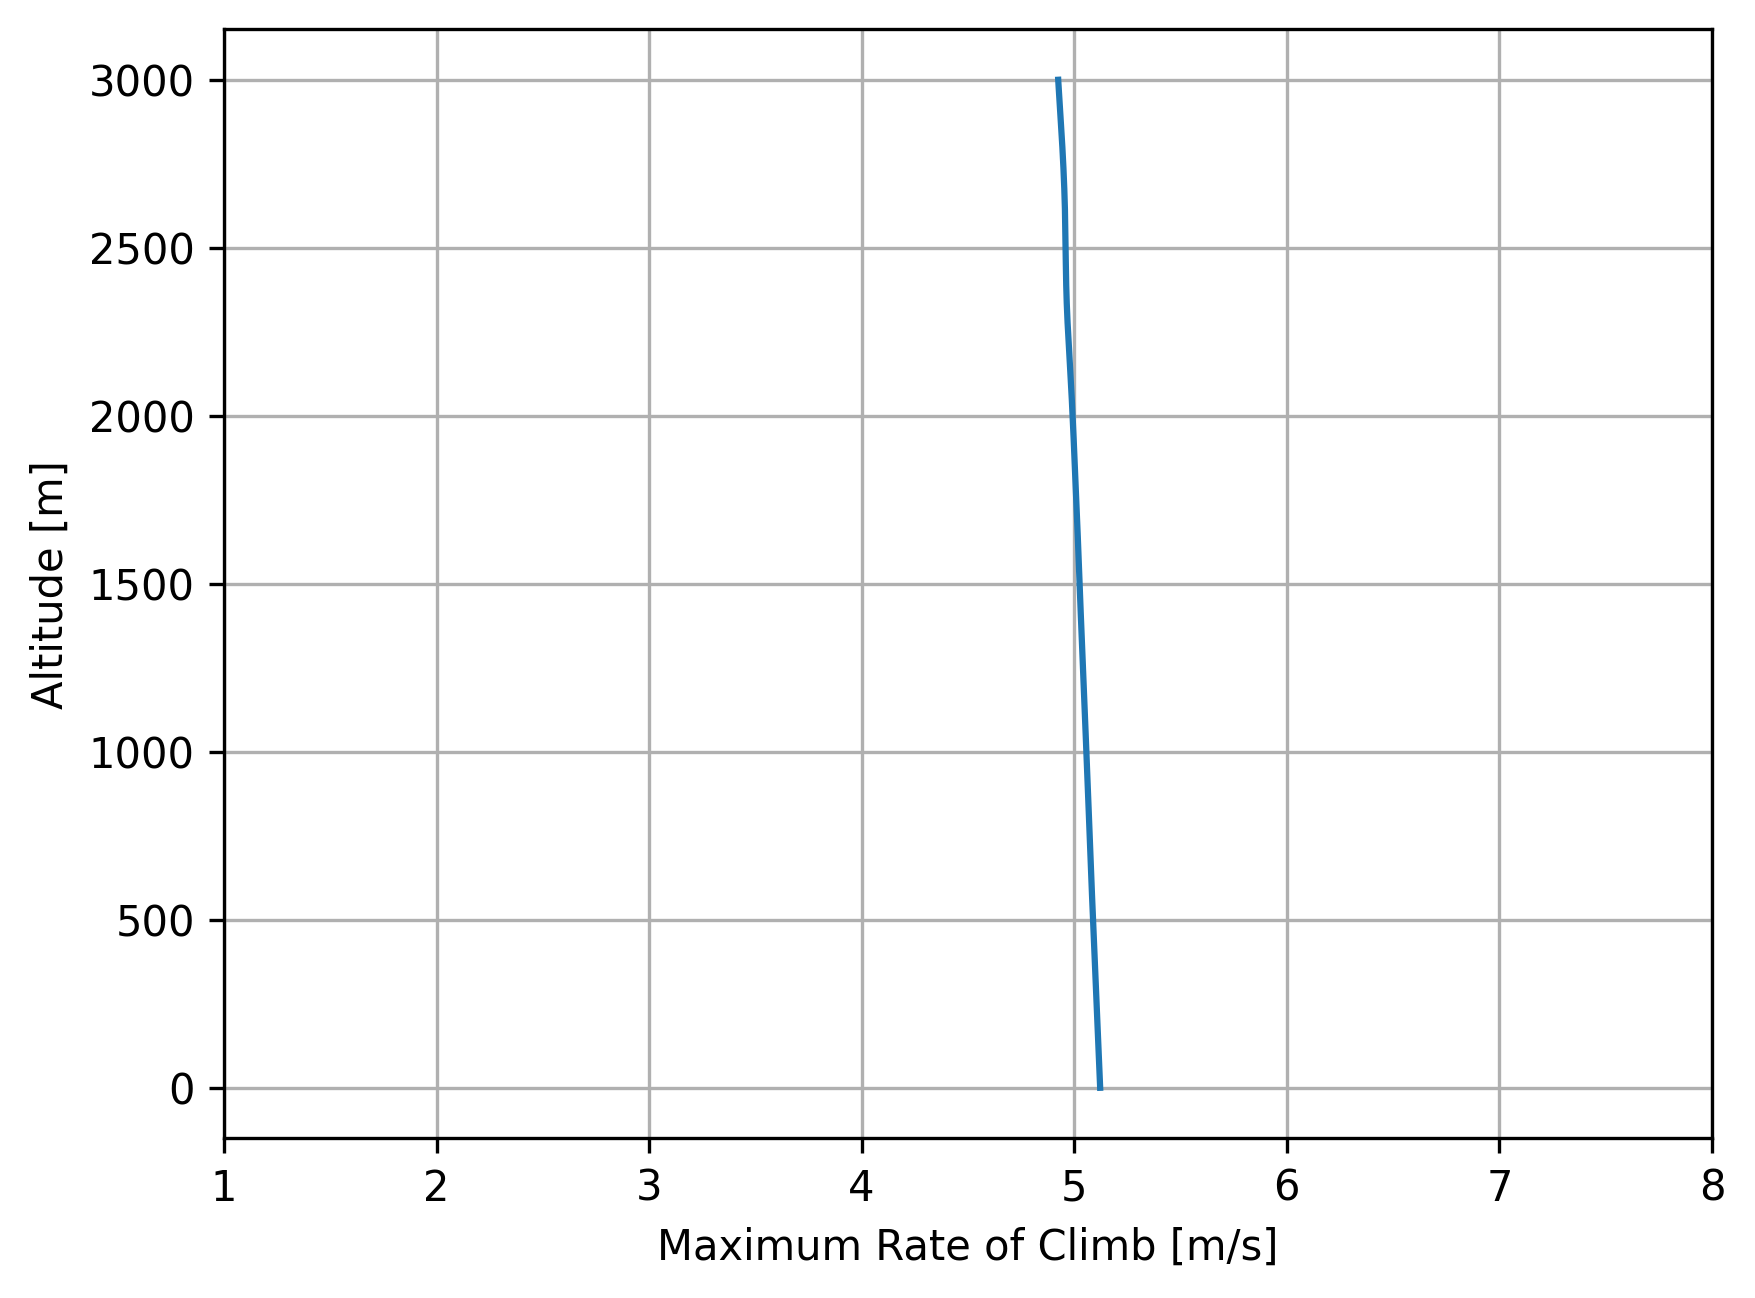
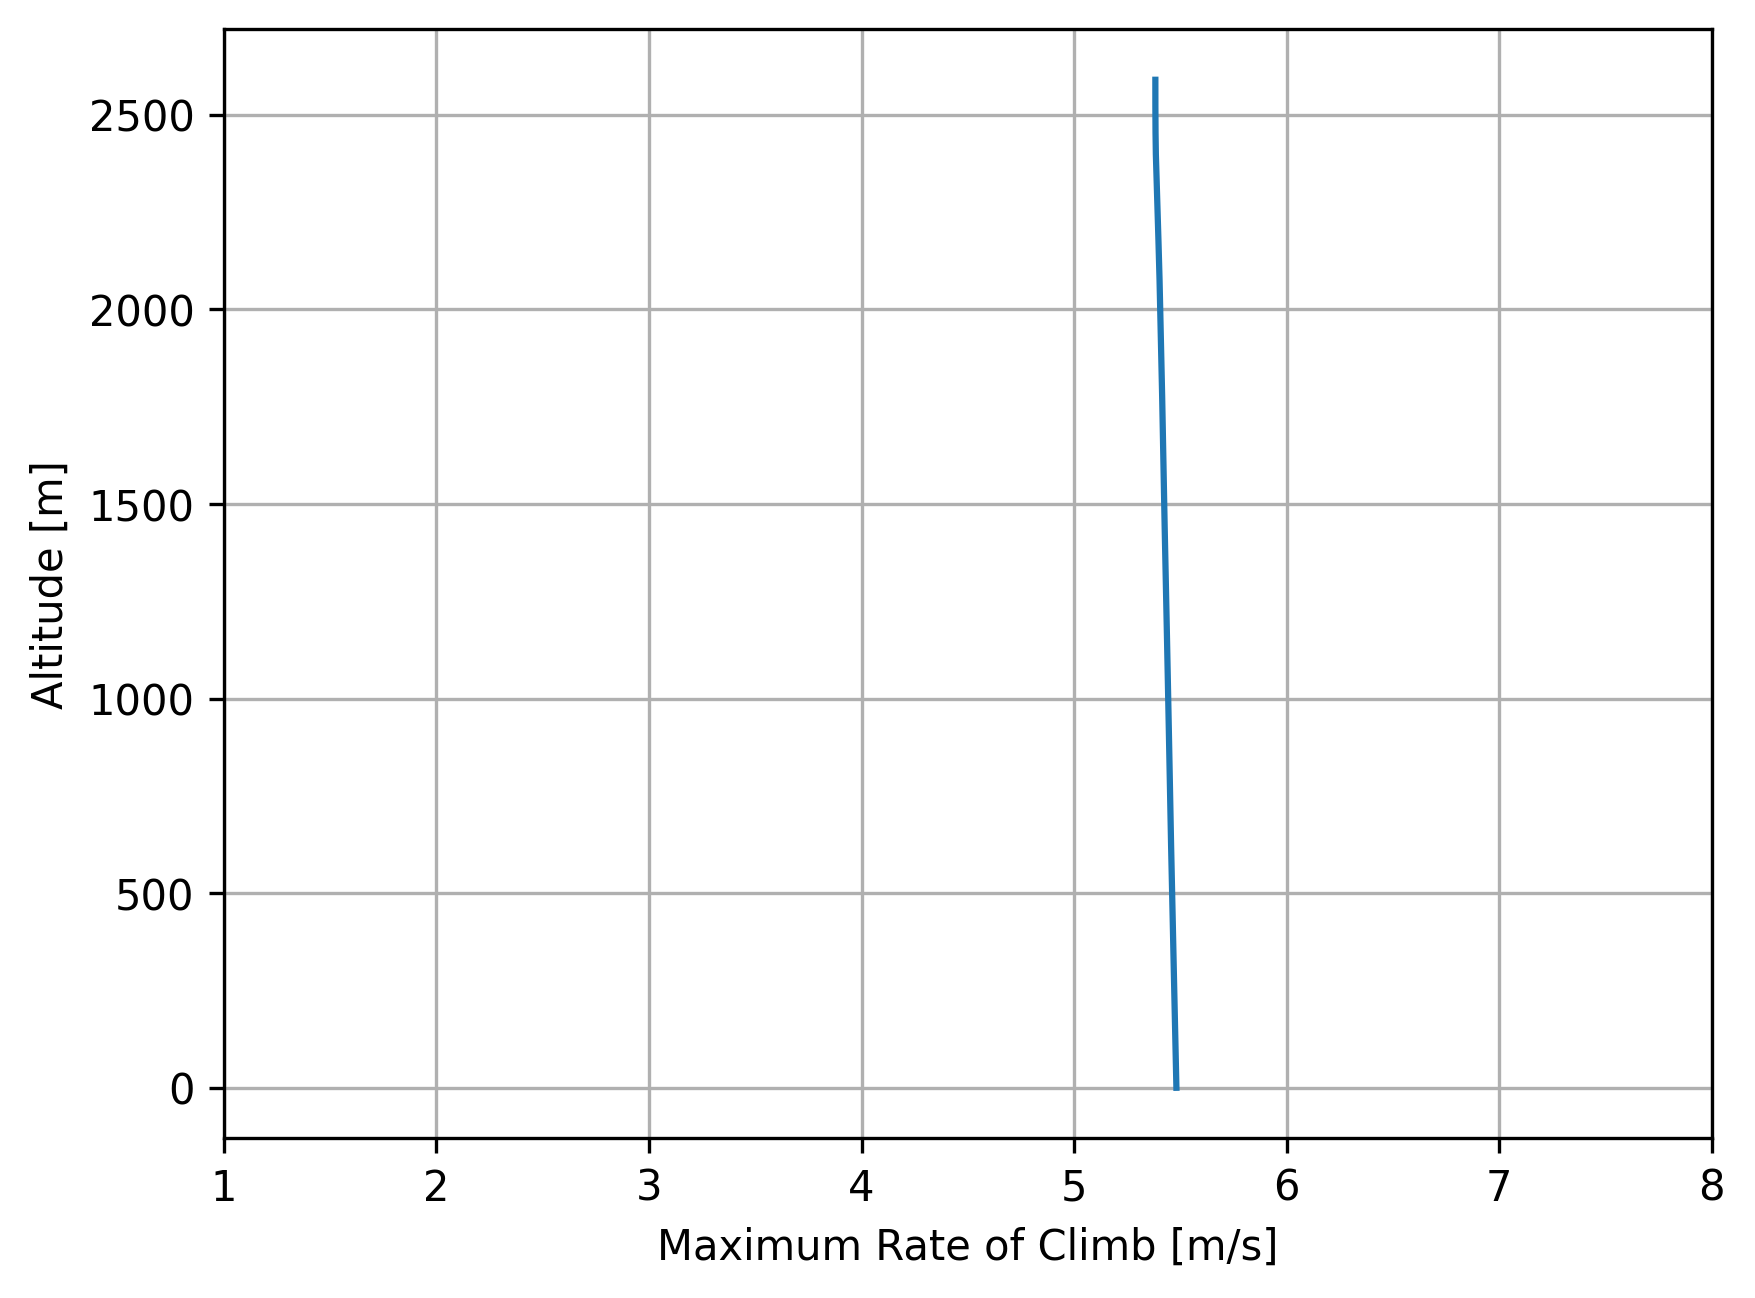
final performance diagrams

diff --git a/performance_diagrams/performance_diagrams.py b/performance_diagrams/performance_diagrams.py
@@ -1,6 +1,6 @@
 import sys
 import os
-
+from scipy.integrate import quad
 # Fix path FIRST, before any local imports
 sys.path.insert(0, os.path.join(os.path.dirname(__file__), '..'))
 import math
@@ -75,9 +75,11 @@ def AoC_vs_V(P_a, P_r, mtow, V):
     plt.ylabel("Angle of Climb [deg]")
     plt.grid(True)
     plt.plot(V, AoC)
+    plt.ylim(-2,9)
     os.makedirs(os.path.dirname(save_path), exist_ok=True)
     plt.savefig(save_path, dpi=300, bbox_inches='tight')
     plt.close()
+    print(max_AoC)
     
     return AoC
 
@@ -111,7 +113,7 @@ def power_curves_altitude(cd0, e, AR, mtow, S, alt_m, delta_T,P_shaft,D_ft):
         line, = plt.plot(V, P_r, label=f"{alt: .0f} m")
         #plt.ylim(150000,200000)
         plt.plot(V_ms, P_a, linestyle='--',color=line.get_color())
-        plt.xlim(30,100)
+        plt.xlim(30,90)
     save_path=Path(__file__).parent / "performance_figures/power_curves_alt.png"
     plt.xlabel("Velocity [m/s]")
     plt.ylabel("Power [W]")
@@ -139,16 +141,36 @@ def RoC_multiple_alts(P_a_alts, P_r_alts, V_alts, mtow,alt_m):
     save_path=Path(__file__).parent / "performance_figures/roc_alt.png"
     plt.xlabel("Velocity [m/s]")
     plt.ylabel("Rate of Climb [m/s]")
-    plt.ylim(-4,6)
+    plt.ylim(-2,6)
     plt.grid(True)
     plt.legend()
     os.makedirs(os.path.dirname(save_path), exist_ok=True)
     plt.savefig(save_path, dpi=300, bbox_inches='tight')
     plt.close()
 
+def AoC_multiple_alts(P_a_alts, P_r_alts, V_alts, mtow,alt_m):
+    
+    for i, alt in enumerate(alt_m):
+        V = V_alts[i]  # P_r grid
+        V_ms, P_a = P_a_alts[i]  # unpack both (store them as tuples when you compute them)
+        
+        P_a_interp = np.interp(V, V_ms, P_a)  # interpolate P_a onto P_r's V grid
+        
+        aoc = np.arcsin((P_a_interp[i] - P_r_alts[i]) / (mtow*V))
+        aoc = np.rad2deg(aoc)
+        plt.plot(V, aoc, label=f"{alt} m")
+    save_path=Path(__file__).parent / "performance_figures/aoc_alt.png"
+    plt.xlabel("Velocity [m/s]")
+    plt.ylabel("Angle of Climb [deg]")
+    plt.ylim(-2,10)
+    plt.grid(True)
+    plt.legend()
+    os.makedirs(os.path.dirname(save_path), exist_ok=True)
+    plt.savefig(save_path, dpi=300, bbox_inches='tight')
+    plt.close()
 
 def max_RoC_altitude(mtow, cd0, S, AR, e, delta_T,P_shaft,D_ft):
-    alts = np.arange(0, 3000, 0.5)  # [m]
+    alts = np.arange(0, 2590.5, 0.5)  # [m]
 
     max_RoCs = []
 
@@ -173,13 +195,16 @@ def max_RoC_altitude(mtow, cd0, S, AR, e, delta_T,P_shaft,D_ft):
         max_RoC = RoC[idx_max]
 
         max_RoCs.append(max_RoC)
-        #print(f"alt={a}m | V_best={V[idx_max]:.1f} m/s | RoC={RoC[idx_max]:.4f} m/s | P_a={P_a[idx_max]:.1f} | P_r={P_r[idx_max]:.1f}")
-    
-    # plt.plot([np.max(curve(D_ft,
-    #                          Atmosphere(a, delta_T).density[0],
-    #                          P_shaft)[1])
-    #             for a in alts], alts)
-    # plt.show()
+
+    # import numpy as np
+
+    integrand = [1.0 / roc for roc in max_RoCs]
+
+    time_to_climb = np.trapz(integrand, alts)
+    print(time_to_climb)
+
+    #print(f"Time to climb = {time_to_climb:.1f} s")
+    #print(f"= {time_to_climb/60:.2f} minutes")
     save_path=Path(__file__).parent / "performance_figures/max_roc_alt.png"
     plt.xlabel("Maximum Rate of Climb [m/s]")
     plt.ylabel("Altitude [m]")
@@ -190,6 +215,7 @@ def max_RoC_altitude(mtow, cd0, S, AR, e, delta_T,P_shaft,D_ft):
     os.makedirs(os.path.dirname(save_path), exist_ok=True)
     plt.savefig(save_path, dpi=300, bbox_inches='tight')
     plt.close()
+
 
     return max_RoCs, alts
 
@@ -302,35 +328,36 @@ if __name__ == '__main__':
 
     
     # ---- Design parameters ----
-    e = 0.752
-    AR = 10.2
-    mtow = 1821 * 9.81  # [N]
+    e = 0.747
+    AR = 9
+    mtow = 1871 * 9.81  # [N]
 
     atmos_model = Atmosphere(alt, delta_T)
     rho_0 = atmos_model.density[0]
     
-    C_l_max = 1.38 #cruise
-    S = 24.23
+    C_l_max = 1.44+0.287 #cruise
+    S = 31.4
     n = 1
     # print(rho_0)
     # print(mtow)
     # print(S)
     # print(C_l_max)
-    cd0 = 0.03376
-    D_ft=5.66667 #propeller diameter
+    cd0 = 0.0314
+    D_ft=5.675853 #propeller diameter
     V = np.linspace(1.3 * stall_speed(mtow, C_l_max, rho_0, S), 90, 1000)
     
     # print(V)
-    cruise_alt = 2500 #m cruise alt
+    cruise_alt = 2590.8 #m cruise alt
     alt_m = [0,500,1000,1500,2000,2500,3000]
     P_shaft = 135.443 #hp
 
-    excess_power, P_r, P_a = power_calc(cd0, e, AR,mtow, V, S,cruise_alt,P_shaft,0,D_ft)
+    excess_power, P_r, P_a = power_calc(cd0, e, AR,mtow, V, S,0,P_shaft,0,D_ft)
 
     roc = RoC_vs_V(excess_power, V, mtow) #cruise
     Aoc = AoC_vs_V(P_a, P_r, mtow, V) #cruise
     P_a_alts, P_r_alts, V_alts = power_curves_altitude(cd0, e, AR, mtow, S,alt_m, 0,P_shaft, D_ft)
     RoC_multiple_alts(P_a_alts, P_r_alts, V_alts, mtow,alt_m)
+    AoC_multiple_alts(P_a_alts, P_r_alts, V_alts, mtow,alt_m)
     max_roc, alt = max_RoC_altitude(mtow,cd0, S, AR, e, 0,P_shaft, D_ft)
     envelope(C_l_max, mtow, S, cd0, AR, e, P_a, rho_0, n, delta_T,P_shaft,D_ft)
     print(max_roc)

diff --git a/performance_diagrams/Propeller_performance.py b/performance_diagrams/Propeller_performance.py
@@ -1,3 +1,8 @@
+import sys
+import os
+
+# Fix path FIRST, before any local imports
+sys.path.insert(0, os.path.join(os.path.dirname(__file__), '..'))
 import numpy as np
 import matplotlib.pyplot as plt
 from scipy.interpolate import CubicSpline
@@ -5,7 +10,7 @@ import pandas as pd
 from classes.isa import *
 from scipy.optimize import curve_fit
 #propeller chosen https://www.propellor.com/ap431hapf-snl68e
-graphdata = pd.read_csv("ctcp")
+graphdata = pd.read_csv("performance_diagrams\ctcp")
 
 #check units
 kgtoslug = 0.00194032
@@ -168,7 +173,7 @@ def curve( D_ft,rho_kgm3,P_bhp):
     P_useful = eff1 * P_bhp
     #T_static= ctcp*550*P_bhp/(n*D_ft)#t_static according to Raymer
     T_static=0.85*(P_bhp*550)**(2/3)*(2*rho_kgm3*desnityconversion*A)**(1/3) #one engine and overestimate due to the fact they dont take into account blockage
-    P_useful_w = T*Vnew* 745.7*2 #both engines in watts
+    P_useful_w = P_useful* 745.7*2 #both engines in watts
     P1=P_useful*745.7*2
     V_ms = Vnew * 0.3048
 
@@ -196,11 +201,11 @@ def curve( D_ft,rho_kgm3,P_bhp):
 
     plt.show()
     """
-    return T_static,Vnew,eff1
-    #return V_ms,P_useful_w
+    #return T_static,Vnew,eff1
+    return V_ms,P_useful_w
 
-D_ft=5.66667
-T_static,Vnew,eff1=curve(D_ft,1.02,160)
+# D_ft=5.66667
+# T_static,Vnew,eff1=curve(D_ft,1.02,160)
 
 # delta_T=20
 # altitudes = np.arange(0, 8000, 50)

diff --git a/performance_diagrams/descent_performance.py b/performance_diagrams/descent_performance.py
@@ -10,7 +10,7 @@ import numpy as np
 import matplotlib.pyplot as plt
 from pathlib import Path
 
-clmax = 1.38
+clmax = 1.44
 def stall_speed(W, C_l_max, rho, S):
     return math.sqrt((2 * W)/(rho * S * C_l_max))
 
@@ -42,7 +42,7 @@ def descent_perf(delta_T, W, cd0,S,AR,e,T, C_l_max):
         k = 1/ (np.pi*e*AR)
         LD = C_L/ C_D
         idx_min_angle = np.argmax(LD)
-        V_min_angle = np.sqrt(2/rho * np.sqrt(k/Cdmin)*W/S)
+        V_min_angle = np.sqrt(2/rho * np.sqrt(k/cd0)*W/S)
         LD_max = LD[idx_min_angle]
         min_angle = np.degrees(np.arctan(1/LD_max))
         range_m = alt*LD_max
@@ -76,7 +76,7 @@ def descent_perf(delta_T, W, cd0,S,AR,e,T, C_l_max):
 
 
         plt.plot(V, -rod, label=f"{alt} m")
-        plt.scatter(V_s, -rod[idx_stall], marker='x')
+        # plt.scatter(V_s, -rod[idx_stall], marker='x')
 
     # print(rod_list)
     plt.xlabel("Velocity [m/s]")
@@ -96,7 +96,7 @@ def required_airspeed(aod_unpowered, C_L, W,S,rho):
     return V_req
 
 # def descent_perf(delta_T, W, cd0,S,AR,e,T, C_l_max)
-descent_perf(0, (1821*9.81), 0.03376, 24.23,10.18, 0.7521, 200000,1.38)
+descent_perf(0, (1871*9.81), 0.0259, 31.4,10.18, 0.783, 200000,1.44)
 
 
 #high AR negative effect on stall vs optimal
